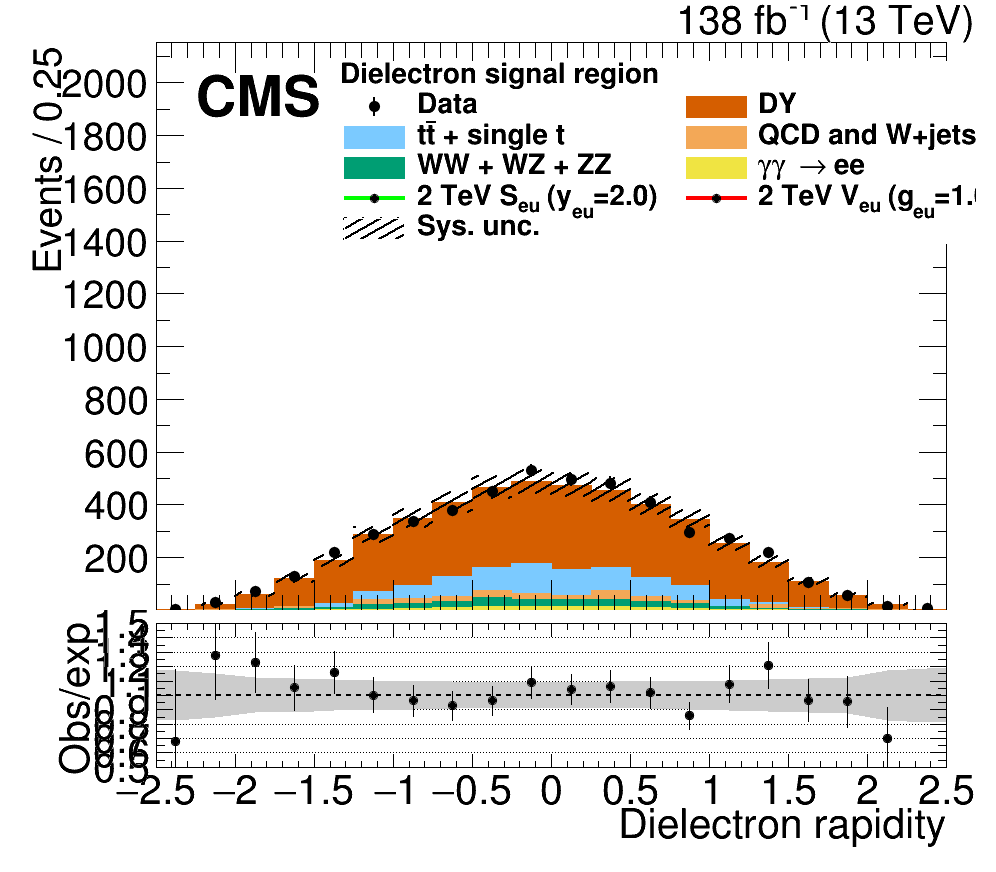
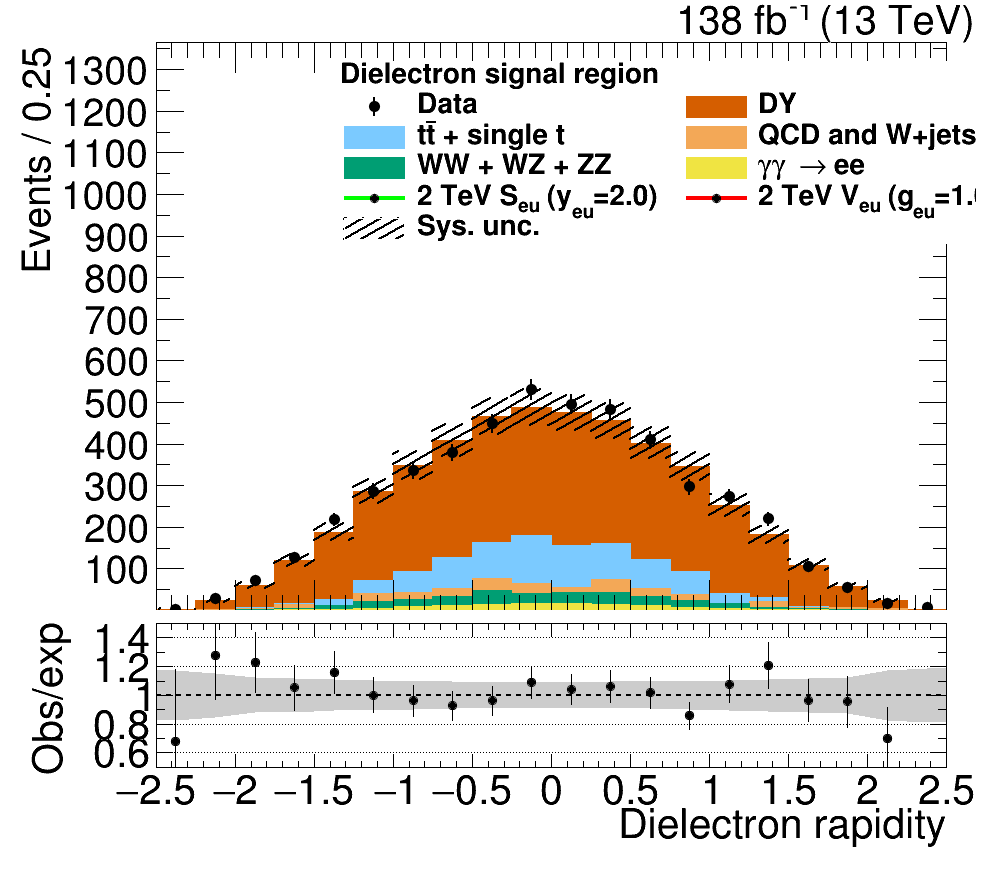
removing LQ from stack

Changed region(s): [[0.1867, 0.4335, 0.9026, 0.7122], [0.0, 0.031, 0.1556, 0.8979], [0.1867, 0.0619, 0.3424, 0.1548]]

diff --git a/plots/ElEl/draw_cmp_from_saved.C b/plots/ElEl/draw_cmp_from_saved.C
@@ -418,7 +418,7 @@ void draw_cmp_from_saved(){
 
 
     int year = -1;
-    float hmax = 3000;
+    float hmax = 1000;
     //if(year == 2016)
     //    hmax *= 0.625;
     //if(year == 2017)
@@ -451,7 +451,7 @@ void draw_cmp_from_saved(){
     logy = false;
     int n_cost_bins = 10;
     float cost_bin_size = 2./n_cost_bins;
-    hmax = 1700;
+    hmax = 1300;
 
     //if(year == 2016)
     //    hmax *= 0.625;
@@ -481,7 +481,7 @@ void draw_cmp_from_saved(){
     int n_rap_bins = 20;
     float rap_bin_size = 5. / n_rap_bins;
 
-    hmax = 2050;
+    hmax = 1300;
 
     //if(year == 2016)
     //    hmax *= 0.625;

diff --git a/plots/CMS_lumi.C b/plots/CMS_lumi.C
@@ -152,7 +152,7 @@ CMS_lumi( TPad* pad, int iPeriod, int iPosX )
       latex.SetTextFont(cmsTextFont);
       latex.SetTextSize(cmsTextSize*t);
       latex.SetTextAlign(align_);
-      if(draw_CMS) latex.DrawLatex(posX_, posY_, cmsText);
+      if(draw_CMS) latex.DrawLatex(posX_, posY_+0.2, cmsText);
       if( writeExtraText ) 
         {
           latex.SetTextFont(extraTextFont);
